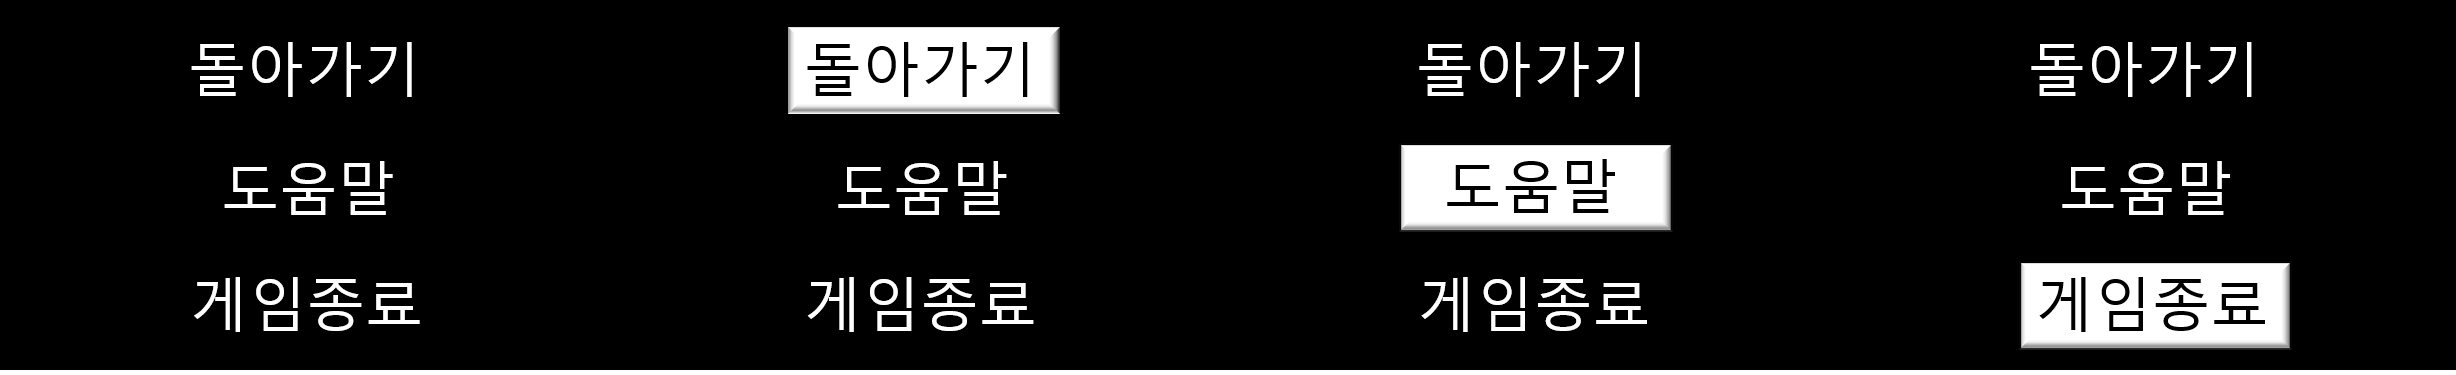
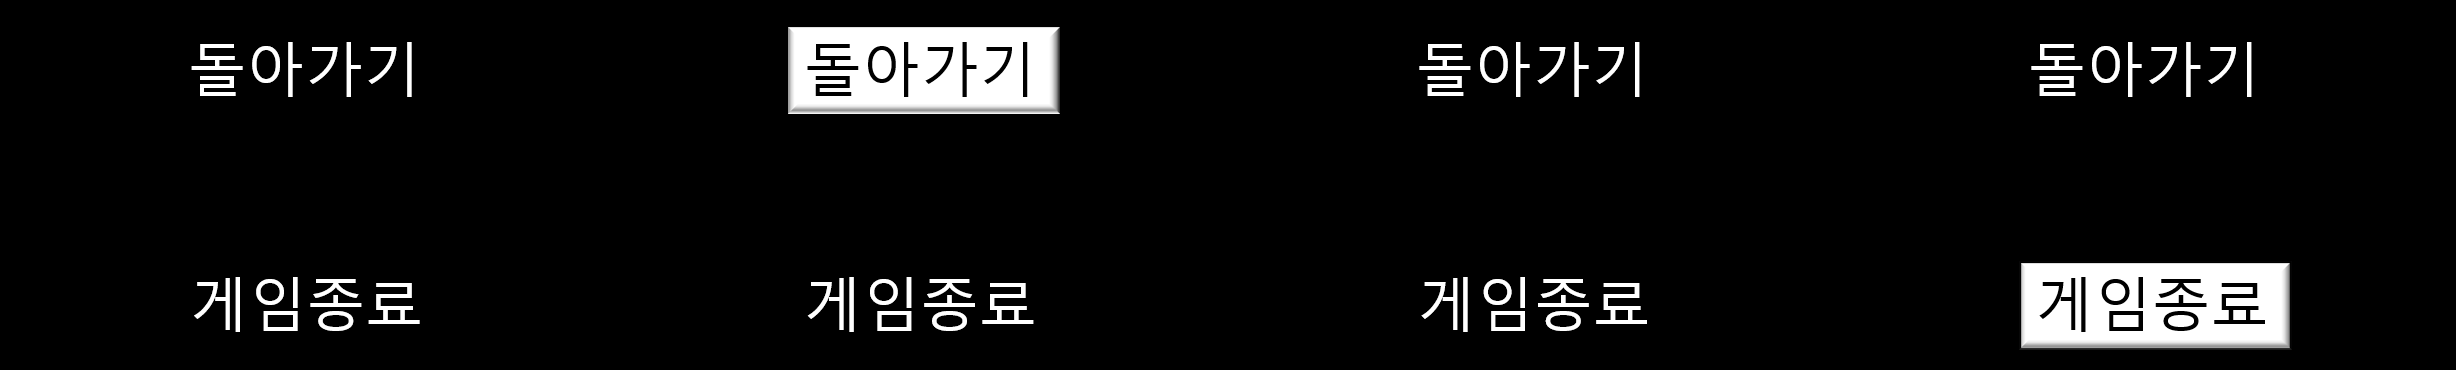
pause_choose_menu 이미지 수정
도움말 삭제에 따른 도움말 칸 삭제, 이미지 드로잉 내용 수정

diff --git a/2DGP_Project/Run&Return/stage_editor.py b/2DGP_Project/Run&Return/stage_editor.py
@@ -126,15 +126,16 @@ def event_KEYDOWN(key):         # 키보드 처리
     elif key == SDLK_8:  # 오른쪽 4번째줄 타일 셋
         tile_choose_num = 7
     elif key == SDLK_9:  # 현재 그려진 타일 저장
-        save_stage()
+        save_stage_next_level()
+    #elif key == SDLK_x:
+        #save_stage_same_level()
     elif key == SDLK_0:  # save_stage.txt에 저장된 타일 로드
         load_stage()
     elif key == SDLK_r:  # 모든 타일 빈타일로 초기화
         clear_stage()
     tile_choose.x, tile_choose.y = tile_choose_place[tile_choose_num][0], tile_choose_place[tile_choose_num][1]
 
-
-def save_stage():           # 현재까지 그린 정보 저장
+def save_stage_next_level():           # 현재까지 그린 정보 저장
     global tile, save_count
     if(save_count>0):
         file = open("save_stage.txt",'a')

diff --git a/2DGP_Project/Run&Return/pause_state.py b/2DGP_Project/Run&Return/pause_state.py
@@ -41,7 +41,7 @@ def update():
     elif(choose_menu_pivot_num == resume):
         choose_menu.left = 614 * 1
     elif (choose_menu_pivot_num == exit):
-        choose_menu.left = 614 * 2
+        choose_menu.left = 614 * 3
 
 
 def draw():
